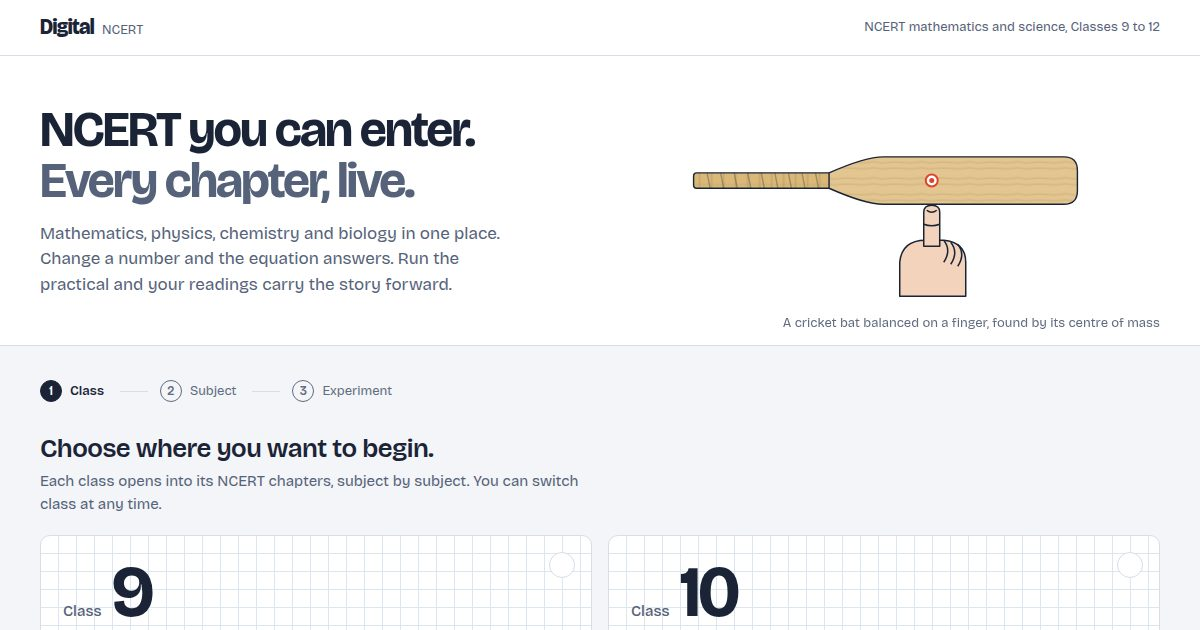
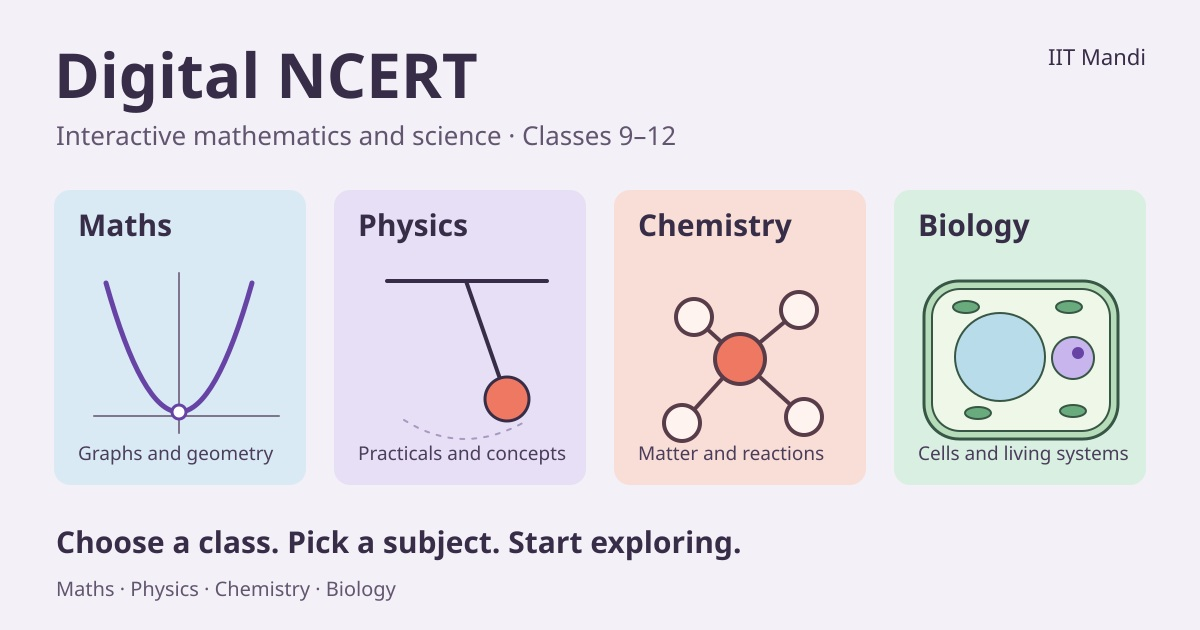
Public link

diff --git a/simlab/index.html b/simlab/index.html
@@ -10,7 +10,7 @@
 <meta name="description" content="Chapter-wise mathematics simulators, physics practicals and chemistry and biology simulations for Classes 9 to 12, in one place.">
 <meta property="og:description" content="Chapter-wise mathematics simulators, physics practicals and chemistry and biology simulations for Classes 9 to 12, in one place.">
 <meta property="og:url" content="https://tayaladitya.github.io/tp-live/simlab/">
-<meta property="og:image" content="https://tayaladitya.github.io/tp-live/simlab/preview.jpg">
+<meta property="og:image" content="https://tayaladitya.github.io/tp-live/simlab/preview-digital-ncert-all-subjects-v3.jpg">
 <meta property="og:image:width" content="1200">
 <meta property="og:image:height" content="630">
 <meta property="og:image:alt" content="Digital NCERT | Mathematics and science, Classes 9 to 12">
